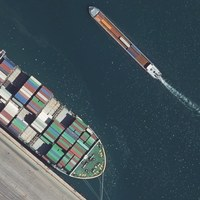
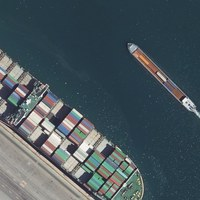
new source images

diff --git a/generate_scene_previews.py b/generate_scene_previews.py
@@ -20,37 +20,53 @@ import rasterio
 from rasterio.windows import Window
 from PIL import Image
 
-# (nom_scene, chemin_local_du_gros_tif)
-# (nom_scene, chemin_local_du_gros_tif, centre_x_fraction, centre_y_fraction)
+# URL publique R2 (cf. échanges précédents du projet) — pas de chemin local :
+# les TIF sources font 1-2 Go chacun, pas forcément présents sur la machine
+# qui lance ce script. rasterio lit en HTTP via /vsicurl/ (lecture fenêtrée
+# par plage d'octets, ne télécharge que la zone du crop, pas le fichier
+# entier) — corrigé le 01/09/2026, la version précédente supposait un
+# fichier local.
+R2_BASE_URL = "https://pub-0ded545d97af48d39c393173a8570073.r2.dev"
+
+# (nom_scene, nom_fichier_sur_R2, centre_x_fraction, centre_y_fraction)
 # Les fractions par défaut (0.5, 0.5) supposent un export IGN centré sur le
 # point d'intérêt — pas toujours vrai (constaté sur "port", décentré) :
 # repérer la vraie position avec preview_full_scene.py si l'aperçu généré
 # ici tombe à côté, puis ajuster la fraction correspondante ci-dessous.
+#
+# IMPORTANT : ces fractions doivent rester EXACTEMENT synchronisées avec
+# SCENE_CENTER_FRAC dans eo_adapter.py (côté serveur) — sinon l'aperçu généré
+# ici et le crop réellement utilisé par l'API ne montrent plus la même zone.
+# Corrigé le 01/09/2026 : "port" utilisait (0.486, 0.508) ici contre
+# (0.48, 0.5) côté serveur — écart minime mais réel, aligné maintenant.
 SCENES = [
-    ("aix",   "assets/scenes/2023_IGN_RGB_AIX_5km.tif",   0.5,   0.5),
-    ("avion", "assets/scenes/2023_IGN_RGB_AVION_5km.tif", 0.5,   0.5),
-    ("port",  "assets/scenes/2023_IGN_RGB_PORT_5km.tif",  0.486,  0.508),
+    ("aix",   "2023_IGN_RGB_AIX_5km.tif",   0.5,  0.5),
+    ("avion", "2023_IGN_RGB_AVION_5km.tif", 0.5,  0.5),
+    ("port",  "2023_IGN_RGB_PORT_5km.tif",  0.48, 0.5),
 ]
 
 OUT_DIR = "assets/scenes"  # relatif au dossier Online_EO_Simulator
 
-# Même convention que les scènes existantes (cf. SCENES array du site) :
-# emprise 258.0 x 188.6 m, résolution native IGN 0.2 m/px.
-EXT_W_M = 258.0
-EXT_H_M = 188.6
-RES_M = 0.2
+# Emprise 200.0 x 200.0 m — DOIT correspondre exactement à CORE_FOOTPRINT_M
+# dans eo_adapter.py (empreinte physique fixe côté serveur pour le mode
+# public, quels que soient les curseurs). Corrigé le 01/09/2026 : cette
+# constante valait 258.0 x 188.6 auparavant, ne correspondant à rien de
+# précis côté serveur — d'où le décalage entre l'image source affichée et
+# le résultat /simulate (deux crops différents de la même scène).
+EXT_W_M = 200.0
+EXT_H_M = 200.0
+RES_M = 0.2  # résolution native IGN, m/px — doit rester synchronisée avec GSD_SOURCE côté serveur
 THUMB_PX = 200  # vignette carrée, un peu plus grande que les 38-92px affichés, pour rester nette
 
 
-def export_scene(name, tif_path, cx_frac=0.5, cy_frac=0.5):
-    if not os.path.isfile(tif_path):
-        print(f"[SKIP] {name} : fichier introuvable ({tif_path})")
-        return
+def export_scene(name, filename, cx_frac=0.5, cy_frac=0.5):
+    url = f"/vsicurl/{R2_BASE_URL}/{filename}"
 
     crop_w_px = int(round(EXT_W_M / RES_M))
     crop_h_px = int(round(EXT_H_M / RES_M))
 
-    with rasterio.open(tif_path) as src:
+    print(f"[...] {name} : lecture distante depuis {R2_BASE_URL}/{filename}")
+    with rasterio.open(url) as src:
         cx, cy = int(cx_frac * src.width), int(cy_frac * src.height)
         col_off = max(0, cx - crop_w_px // 2)
         row_off = max(0, cy - crop_h_px // 2)
@@ -89,5 +105,5 @@ def export_scene(name, tif_path, cx_frac=0.5, cy_frac=0.5):
 
 
 if __name__ == "__main__":
-    for scene_name, path, cx_frac, cy_frac in SCENES:
-        export_scene(scene_name, path, cx_frac, cy_frac)
+    for scene_name, filename, cx_frac, cy_frac in SCENES:
+        export_scene(scene_name, filename, cx_frac, cy_frac)
